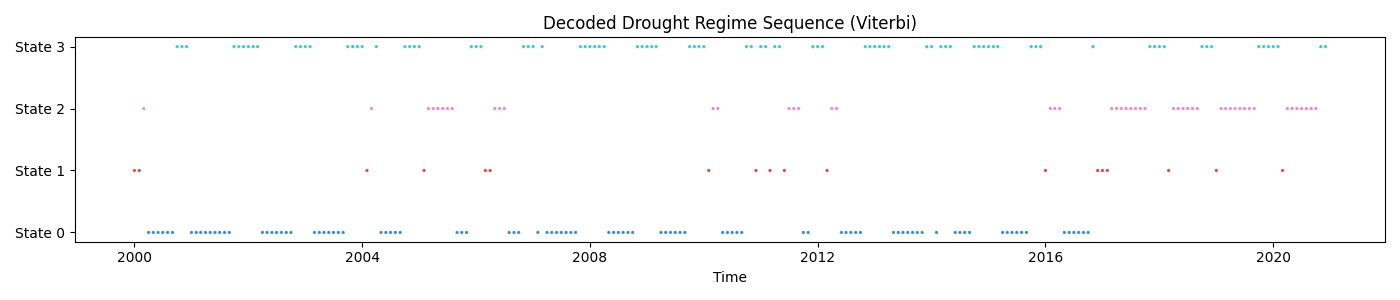
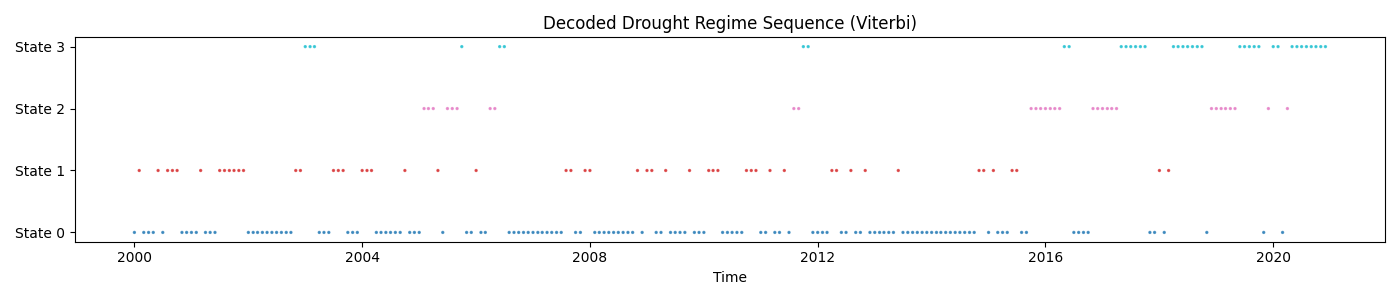
Used z-score for model

diff --git a/files/data_loader.py b/files/data_loader.py
@@ -62,11 +62,27 @@ def load_netcdf(precip_path, et_path):
     df = pd.DataFrame({"precip_mm": precip_monthly, "et_mm": et_monthly})
     df = df[(df.index.year >= 2000) & (df.index.year <= 2020)].dropna()
 
-    # ── Remove seasonal climatology → anomalies ─────────────────────────────
-    # Climatological mean for each calendar month (Jan=1 … Dec=12)
-    clim = df.groupby(df.index.month).mean()          # shape (12, 2)
-    df["precip_anom"] = df["precip_mm"] - df.index.map(lambda d: clim.loc[d.month, "precip_mm"])
-    df["et_anom"]     = df["et_mm"]     - df.index.map(lambda d: clim.loc[d.month, "et_mm"])
+    # ── Standardised anomalies (z-score by calendar month) ──────────────────
+    # Subtracting the mean alone doesn't help: summer precip in the SJV is
+    # always ~0 mm, so the raw anomaly is always ~0 regardless of drought.
+    # Dividing by each month's std puts all months on the same scale — a
+    # "−2σ July" and a "−2σ January" both signal anomalous dryness.
+    # A std floor of 5 mm (precip) / 1 mm (ET) avoids division near zero
+    # for months where the signal is nearly constant.
+    clim_mean = df.groupby(df.index.month).mean()
+    clim_std  = df.groupby(df.index.month).std()
+    clim_std["precip_mm"] = clim_std["precip_mm"].clip(lower=5.0)
+    clim_std["et_mm"]     = clim_std["et_mm"].clip(lower=1.0)
+
+    months = df.index.month
+    df["precip_anom"] = (
+        (df["precip_mm"].values - clim_mean.loc[months, "precip_mm"].values)
+        / clim_std.loc[months, "precip_mm"].values
+    )
+    df["et_anom"] = (
+        (df["et_mm"].values - clim_mean.loc[months, "et_mm"].values)
+        / clim_std.loc[months, "et_mm"].values
+    )
 
     X     = df[["precip_anom", "et_anom"]].values.astype(float)
     dates = df.index

diff --git a/files/app.py b/files/app.py
@@ -36,17 +36,17 @@ st.set_page_config(
 # ── design tokens ─────────────────────────────────────────────────────────────
 # Earthy, drought-appropriate palette — one color per regime
 REGIME_COLORS = {
-    0: "#7A8C7E",   # sage-grey  → cool-normal
-    1: "#5B8DB8",   # steel-blue → wet anomaly
-    2: "#B94040",   # brick-red  → warm-dry anomaly
-    3: "#D97B4F",   # amber      → drought (precip deficit)
+    0: "#7A8C7E",   # sage-grey  → cool-dry (suppressed precip + ET)
+    1: "#5B8DB8",   # steel-blue → wet (precip surplus)
+    2: "#D4A843",   # gold       → warm-wet (precip + ET both above normal)
+    3: "#B94040",   # brick-red  → hot drought (precip deficit + high ET demand)
 }
 
 REGIME_LABELS = {
-    0: "Cool-Normal",
+    0: "Cool-Dry",
     1: "Wet",
-    2: "Warm-Dry",
-    3: "Drought",
+    2: "Warm-Wet",
+    3: "Hot Drought",
 }
 
 PLOTLY_LAYOUT = dict(
